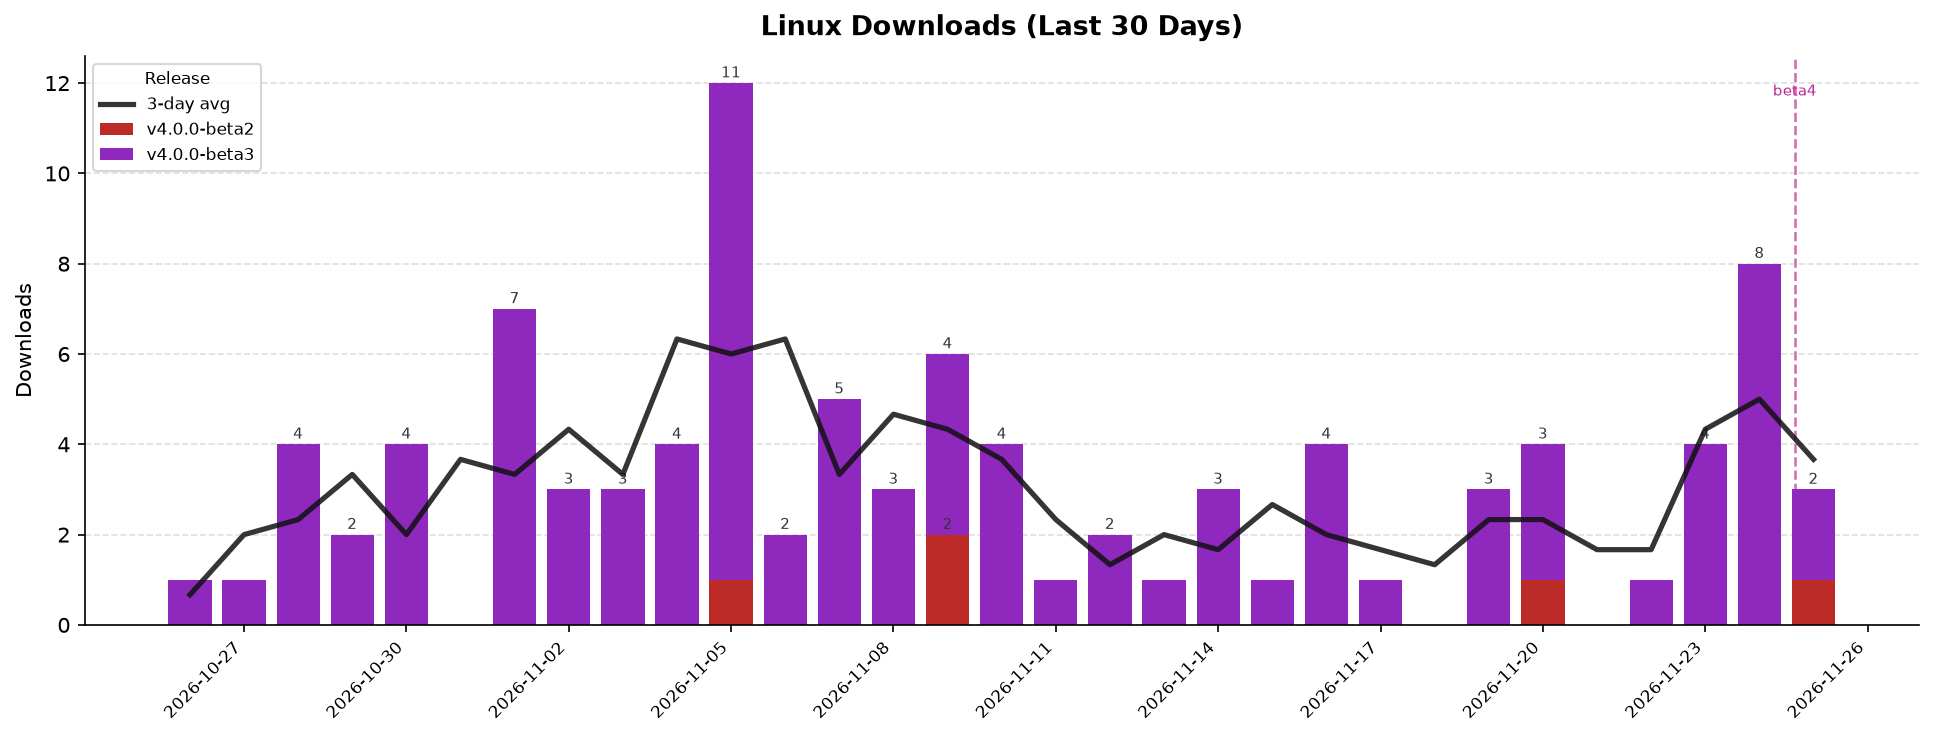
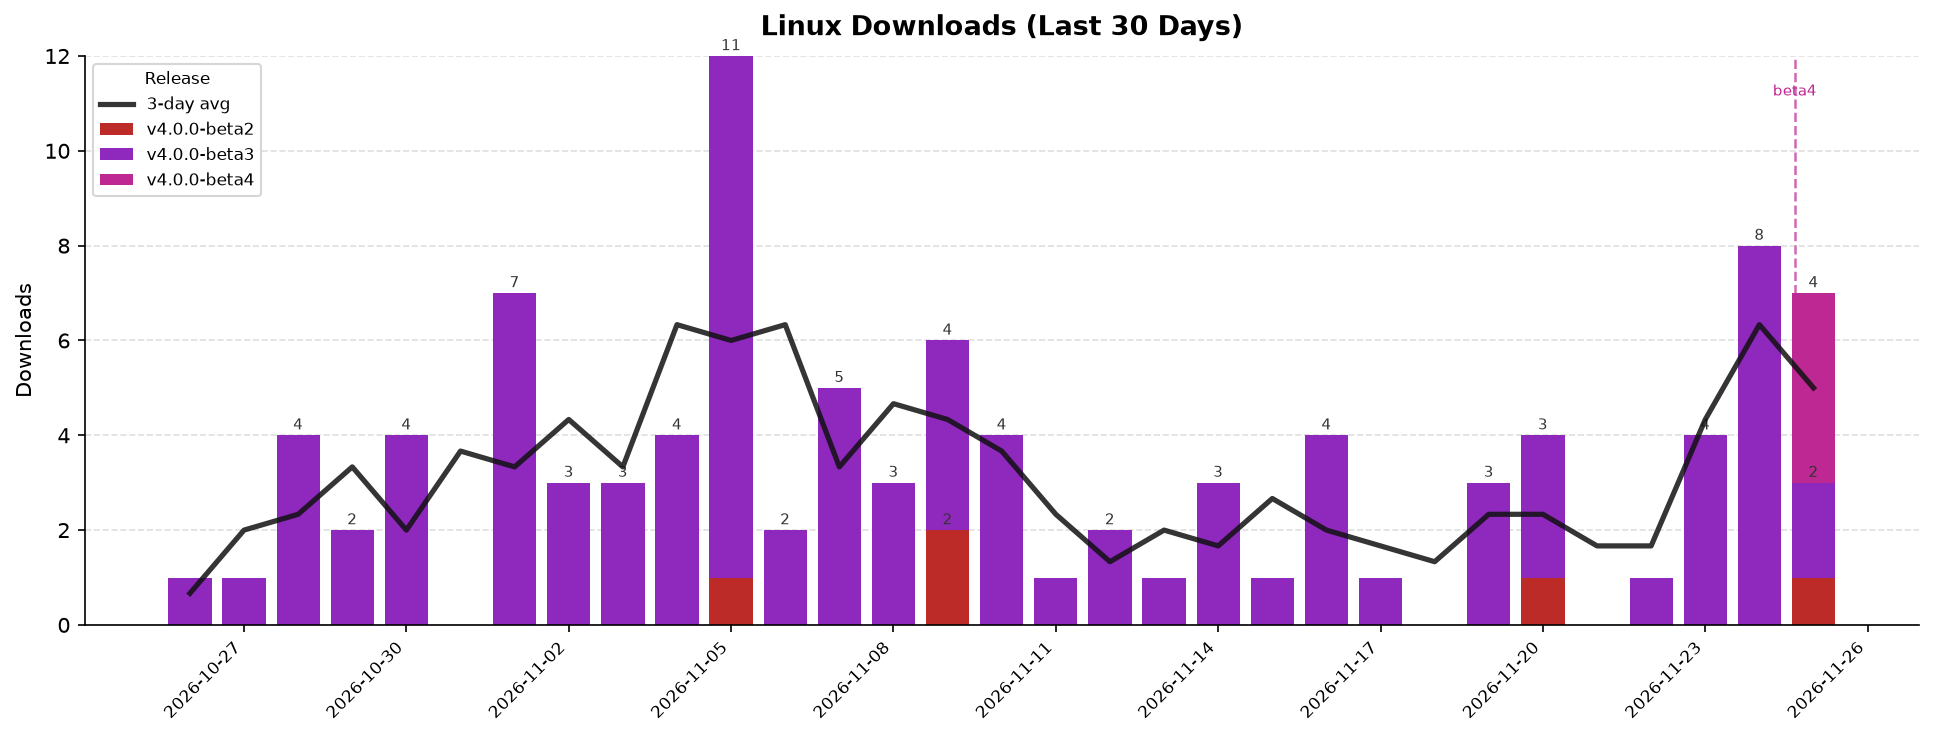
chore: update model

diff --git a/README.md b/README.md
@@ -18,5 +18,5 @@
 |---------|----------|------- | ------- | -------|-------|
 | v4.0.0-beta2 | 2026-08-05 | 115 | 57 | 0 | 172 |
 | v4.0.0-beta3 | 2026-09-02 | 512 | 247 | 0 | 759 |
-| v4.0.0-beta4 | 2026-11-24 | 6 | 0 | 0 | 6 |
-| **All** | | **633** | **304** | **0** | **937** |
+| v4.0.0-beta4 | 2026-11-24 | 13 | 4 | 9 | 26 |
+| **All** | | **640** | **308** | **9** | **957** |
